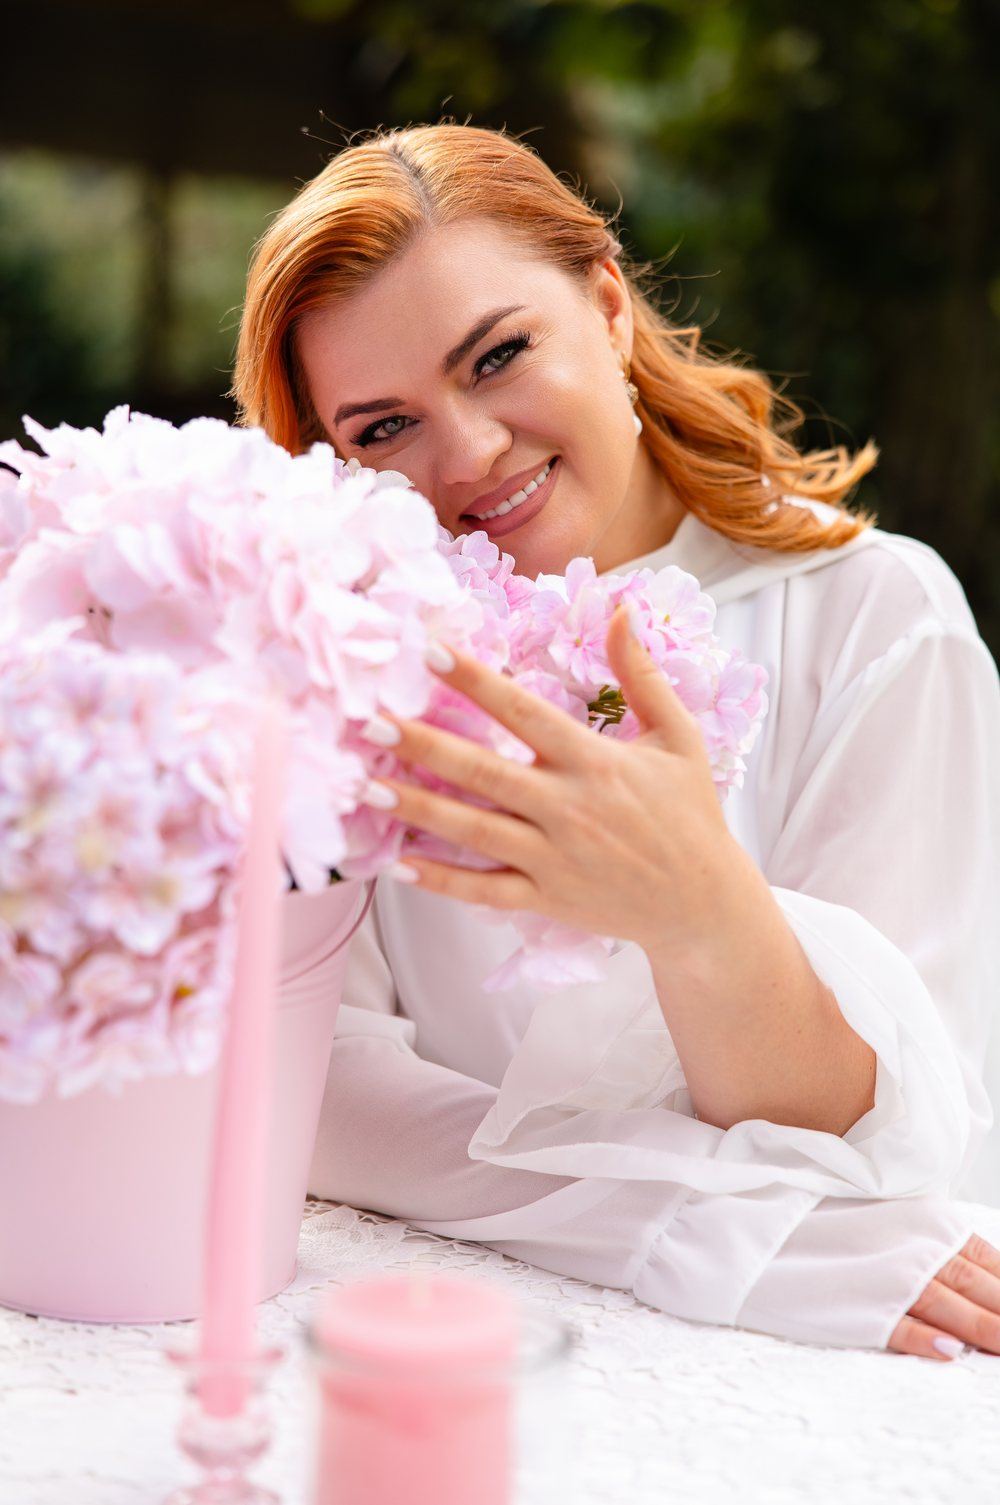
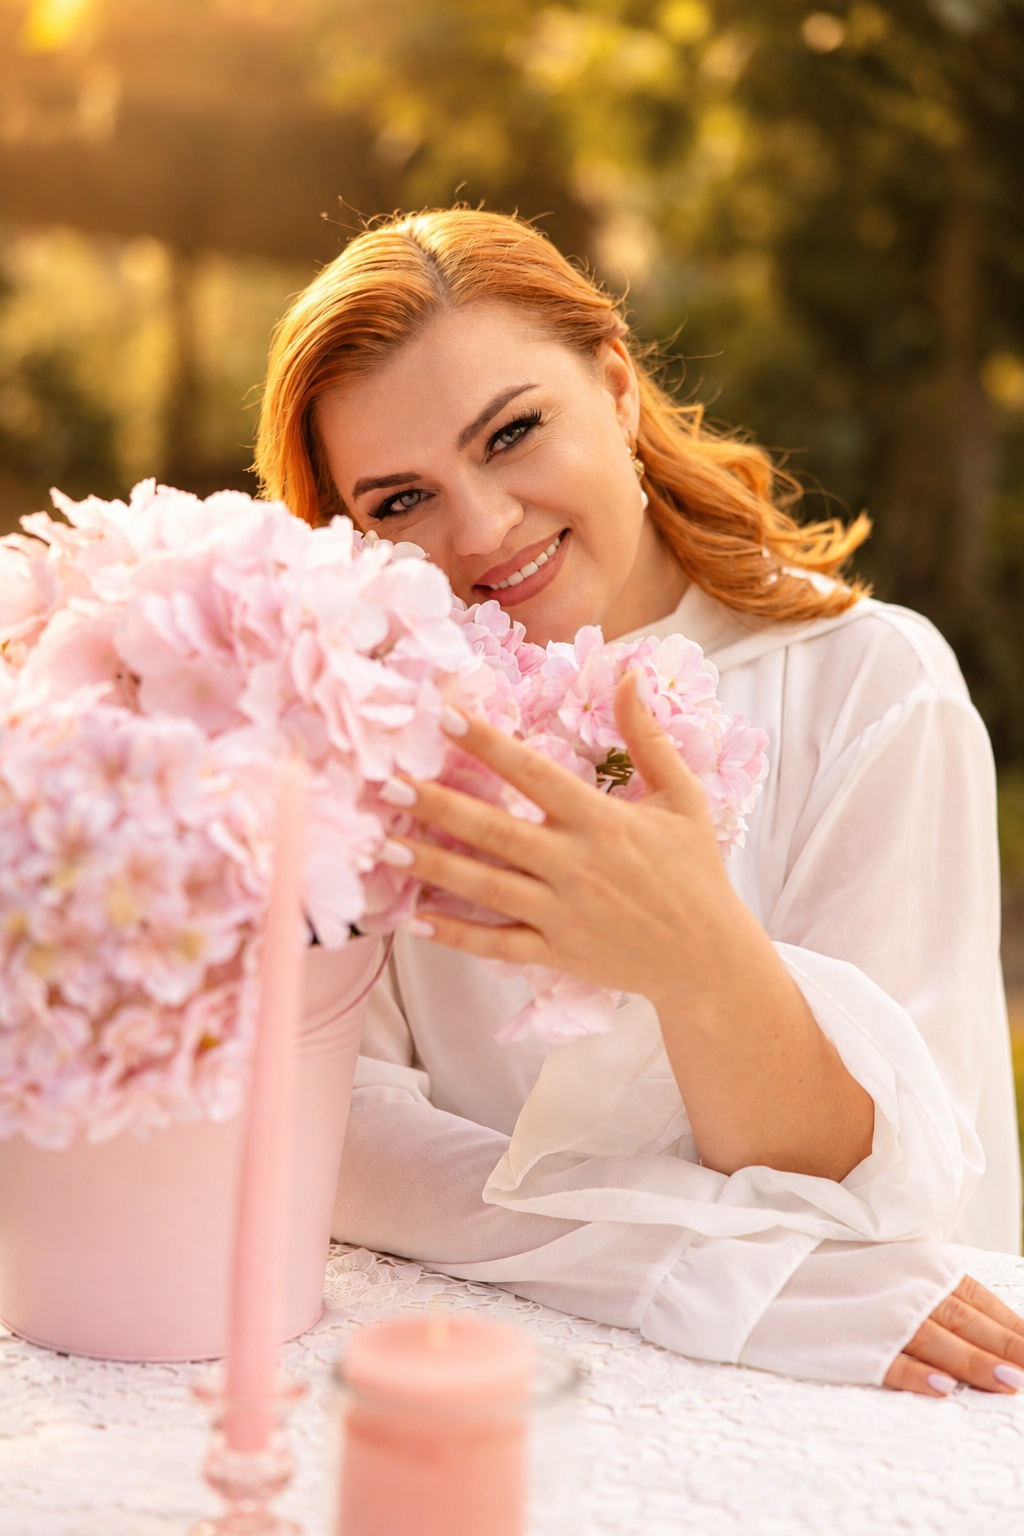
Оновлення сторінки «Ризикни бути живою»: ілюстрації для пунктів «Кому підходить», клік-картки цін з переходом у Telegram, нове фото Наталі, скорочення квізу до 5 питань

diff --git a/ryzykny.js b/ryzykny.js
@@ -53,14 +53,14 @@ const accordionTopics = [
 ];
 
 const pains = [
-  "повернути контакт із собою та своїми відчуттями",
-  "краще чути свої «хочу» і «не хочу», потреби та бажання",
-  "знову відчути своє тіло та більше живості в ньому",
-  "повернути жагу до життя, енергію та цікавість",
-  "навчитися говорити: «Я не хочу», «Мені так не підходить», «Я хочу інакше»",
-  "відстоювати свої межі та залишатися на своєму боці",
-  "ризикувати бути собою навіть там, де страшно",
-  "знайомитися з новими жінками та отримувати досвід живого, підтримувального контакту"
+  { icon: "./public/kvitka/icon-hands-butterfly.png?v=3", text: "повернути контакт із собою та своїми відчуттями" },
+  { icon: "./public/kvitka/icon-lighthouse.png?v=3", text: "краще чути свої «хочу» і «не хочу», потреби та бажання" },
+  { icon: "./public/kvitka/icon-wings.png?v=3", text: "знову відчути своє тіло та більше живості в ньому" },
+  { icon: "./public/kvitka/icon-watering-can.png?v=3", text: "повернути жагу до життя, енергію та цікавість" },
+  { icon: "./public/kvitka/icon-birdcage.png?v=3", text: "навчитися говорити: «Я не хочу», «Мені так не підходить», «Я хочу інакше»" },
+  { icon: "./public/kvitka/icon-anchor.png?v=3", text: "відстоювати свої межі та залишатися на своєму боці" },
+  { icon: "./public/kvitka/icon-bridge.png?v=3", text: "ризикувати бути собою навіть там, де страшно" },
+  { icon: "./public/kvitka/icon-nest.png?v=3", text: "знайомитися з новими жінками та отримувати досвід живого, підтримувального контакту" }
 ];
 
 const explore = [
@@ -88,6 +88,12 @@ const format = [
 
 function renderList(id, items) {
   document.querySelector(id).innerHTML = items.map((text) => `<article>${text}</article>`).join("");
+}
+
+function renderPains(id, items) {
+  document.querySelector(id).innerHTML = items
+    .map((item) => `<article><img class="pain-icon" src="${item.icon}" alt="" loading="lazy" /><p>${item.text}</p></article>`)
+    .join("");
 }
 
 function renderChips(id, items) {
@@ -128,19 +134,26 @@ document.addEventListener("click", (event) => {
   }
 });
 
-renderList("#ryz-pains", pains);
+renderPains("#ryz-pains", pains);
 renderChips("#ryz-explore", explore);
 renderStats("#ryz-stats", groupStats);
 renderList("#ryz-format", format);
 renderAccordion("#ryz-accordion", accordionTopics);
 
 const priceModes = [
-  { mode: "ONLINE", price: GROUP.priceOnline, date: `старт ${GROUP.onlineDate}` },
-  { mode: "OFFLINE · Прага", price: GROUP.priceOffline, date: `старт ${GROUP.offlineDate}` }
+  { mode: "ONLINE", price: GROUP.priceOnline, date: `старт ${GROUP.onlineDate}`, message: `Доброго дня! Хочу записатися на групу «Ризикни бути живою» — формат ONLINE, ${GROUP.priceOnline}/зустріч, старт ${GROUP.onlineDate}.` },
+  { mode: "OFFLINE · Прага", price: GROUP.priceOffline, date: `старт ${GROUP.offlineDate}`, message: `Доброго дня! Хочу записатися на групу «Ризикни бути живою» — формат OFFLINE у Празі, ${GROUP.priceOffline}/зустріч, старт ${GROUP.offlineDate}.` }
 ];
 document.querySelector("#ryz-price").innerHTML = priceModes
-  .map((p) => `<article><span class="price-mode">${p.mode}</span><strong>${p.price}</strong><span class="price-date">за зустріч · ${p.date}</span></article>`)
+  .map((p, i) => `<article data-price-select="${i}" data-price-message="${encodeURIComponent(p.message)}"><span class="price-check">✓</span><span class="price-mode">${p.mode}</span><strong>${p.price}</strong><span class="price-date">за зустріч · ${p.date}</span></article>`)
   .join("");
+
+document.querySelector("#ryz-price").addEventListener("click", (event) => {
+  const card = event.target.closest("[data-price-select]");
+  if (!card) return;
+  document.querySelectorAll("#ryz-price [data-price-select]").forEach((el) => el.classList.toggle("selected", el === card));
+  window.open(`${GROUP.telegramUrl}?text=${card.dataset.priceMessage}`, "_blank");
+});
 
 document.querySelector("#ryz-insurance-text").textContent = GROUP.insurance;
 
@@ -168,12 +181,6 @@ observeReveal();
    ===================================================================== */
 const questions = [
   {
-    icon: "🌀",
-    label: "Автоматичне життя",
-    q: "Чи буває так, що ти ніби живеш на автоматі?",
-    options: ["Так, часто", "Іноді", "Майже ніколи"]
-  },
-  {
     icon: "🌫",
     label: "Розуміння бажань",
     q: "Чи складно тобі зрозуміти, чого ти насправді хочеш?",
@@ -196,18 +203,6 @@ const questions = [
     label: "Почуття",
     q: "Що відбувається з твоїми почуттями?",
     options: ["Я їх часто стримую", "Не завжди розумію, що відчуваю", "Я дозволяю собі їх проживати"]
-  },
-  {
-    icon: "🪞",
-    label: "Підлаштування в стосунках",
-    q: "Чи є у твоєму житті стосунки, де ти більше підлаштовуєшся, ніж можеш бути собою?",
-    options: ["Так", "Іноді", "Ні"]
-  },
-  {
-    icon: "🔥",
-    label: "Дозволяти собі хотіти",
-    q: "Чи дозволяєш ти собі хотіти більшого — у стосунках, сексуальності, реалізації, житті?",
-    options: ["Мені складно навіть зрозуміти, чого я хочу", "Хочу, але боюся дозволити собі", "Так, я добре знаю свої бажання"]
   },
   {
     icon: "🤍",

diff --git a/ryzykny.css b/ryzykny.css
@@ -49,8 +49,11 @@
 
 .ryz-stack article {
   position: relative;
+  display: flex;
+  align-items: center;
+  gap: 14px;
   margin: 0 0 20px;
-  padding: 18px;
+  padding: 14px 18px;
   border: 1px solid var(--line);
   border-radius: 22px;
   background: rgba(255, 253, 250, 0.98);
@@ -60,14 +63,15 @@
   will-change: transform;
 }
 
-.ryz-stack article::before {
-  content: "";
-  display: block;
-  width: 24px;
-  height: 3px;
-  margin-bottom: 12px;
-  border-radius: 999px;
-  background: rgba(169, 138, 114, 0.4);
+.ryz-stack .pain-icon {
+  flex: none;
+  width: 60px;
+  height: 60px;
+  object-fit: contain;
+}
+
+.ryz-stack article p {
+  margin: 0;
 }
 
 .ryz-stack article:last-child {
@@ -225,10 +229,45 @@
 }
 
 .price-grid article {
+  position: relative;
   padding: 16px 14px;
   border-radius: var(--radius-md);
   background: var(--white);
   box-shadow: var(--shadow-card);
+  border: 2px solid transparent;
+  cursor: pointer;
+  transition: transform 180ms ease-out, box-shadow 180ms ease-out, border-color 180ms ease-out, background 180ms ease-out;
+}
+
+.price-grid article:active {
+  transform: scale(0.97);
+}
+
+.price-grid article.selected {
+  border-color: var(--sage-deep);
+  background: var(--sage-tint);
+  box-shadow: var(--shadow-elevated);
+  transform: scale(1.02);
+}
+
+.price-check {
+  display: none;
+  position: absolute;
+  top: 10px;
+  right: 10px;
+  width: 22px;
+  height: 22px;
+  border-radius: 50%;
+  background: var(--sage-deep);
+  color: var(--white);
+  font-size: 12px;
+  font-weight: 700;
+  align-items: center;
+  justify-content: center;
+}
+
+.price-grid article.selected .price-check {
+  display: flex;
 }
 
 .price-grid .price-mode {

diff --git a/index.html b/index.html
@@ -183,7 +183,7 @@
         <article class="panel">
           <div class="heading reveal"><span>✣ Відкритий набір</span><h2>Ризикни бути живою</h2></div>
           <a class="ryzykny-promo" href="./ryzykny-buty-zhyvoyu.html">
-            <img src="./public/kvitka/ryzykny-hero.jpg?v=4" alt="" loading="lazy" decoding="async" />
+            <img src="./public/kvitka/ryzykny-hero.jpg?v=6" alt="" loading="lazy" decoding="async" />
             <span class="ryzykny-promo-badge">Відкритий набір</span>
             <div class="ryzykny-promo-text">
               <small>Терапевтична група</small>
@@ -288,7 +288,7 @@
     <div class="ryzykny-popup-overlay" id="ryzykny-popup" hidden>
       <div class="ryzykny-popup-card">
         <button type="button" class="ryzykny-popup-close" id="ryzykny-popup-close" aria-label="Закрити">×</button>
-        <img src="./public/kvitka/ryzykny-hero.jpg?v=4" alt="" loading="lazy" decoding="async" />
+        <img src="./public/kvitka/ryzykny-hero.jpg?v=6" alt="" loading="lazy" decoding="async" />
         <div class="ryzykny-popup-body">
           <span class="ryzykny-popup-eyebrow">Відкритий набір · ONLINE від 16.10 · Прага від 23.10</span>
           <strong>Зовні все добре.<br />А всередині — порожньо?</strong>

diff --git a/ryzykny-buty-zhyvoyu.html b/ryzykny-buty-zhyvoyu.html
@@ -68,8 +68,8 @@
     <link rel="preconnect" href="https://fonts.gstatic.com" crossorigin />
     <link href="https://fonts.googleapis.com/css2?family=Manrope:wght@400;500;600;700;800&family=Playfair+Display:ital,wght@0,500;0,600;1,500;1,600&display=swap" rel="stylesheet" />
     <link rel="stylesheet" href="./styles.css?v=12" />
-    <link rel="stylesheet" href="./ryzykny.css?v=26" />
-    <link rel="preload" as="image" href="./public/kvitka/ryzykny-hero.jpg?v=4" fetchpriority="high" />
+    <link rel="stylesheet" href="./ryzykny.css?v=34" />
+    <link rel="preload" as="image" href="./public/kvitka/ryzykny-hero.jpg?v=6" fetchpriority="high" />
   </head>
   <body>
     <main class="app">
@@ -82,7 +82,7 @@
       </header>
 
       <article class="hero">
-        <img src="./public/kvitka/ryzykny-hero.jpg?v=4" alt="Наталія Квітка" fetchpriority="high" decoding="async" />
+        <img src="./public/kvitka/ryzykny-hero.jpg?v=6" alt="Наталія Квітка" fetchpriority="high" decoding="async" />
         <div class="hero-top">
           <strong>Терапевтична група · 17 зустрічей</strong>
           <span>ONLINE від 16.10 · OFFLINE Прага від 23.10</span>
@@ -184,6 +184,6 @@
       </div>
     </div>
 
-    <script src="./ryzykny.js?v=16"></script>
+    <script src="./ryzykny.js?v=23"></script>
   </body>
 </html>
